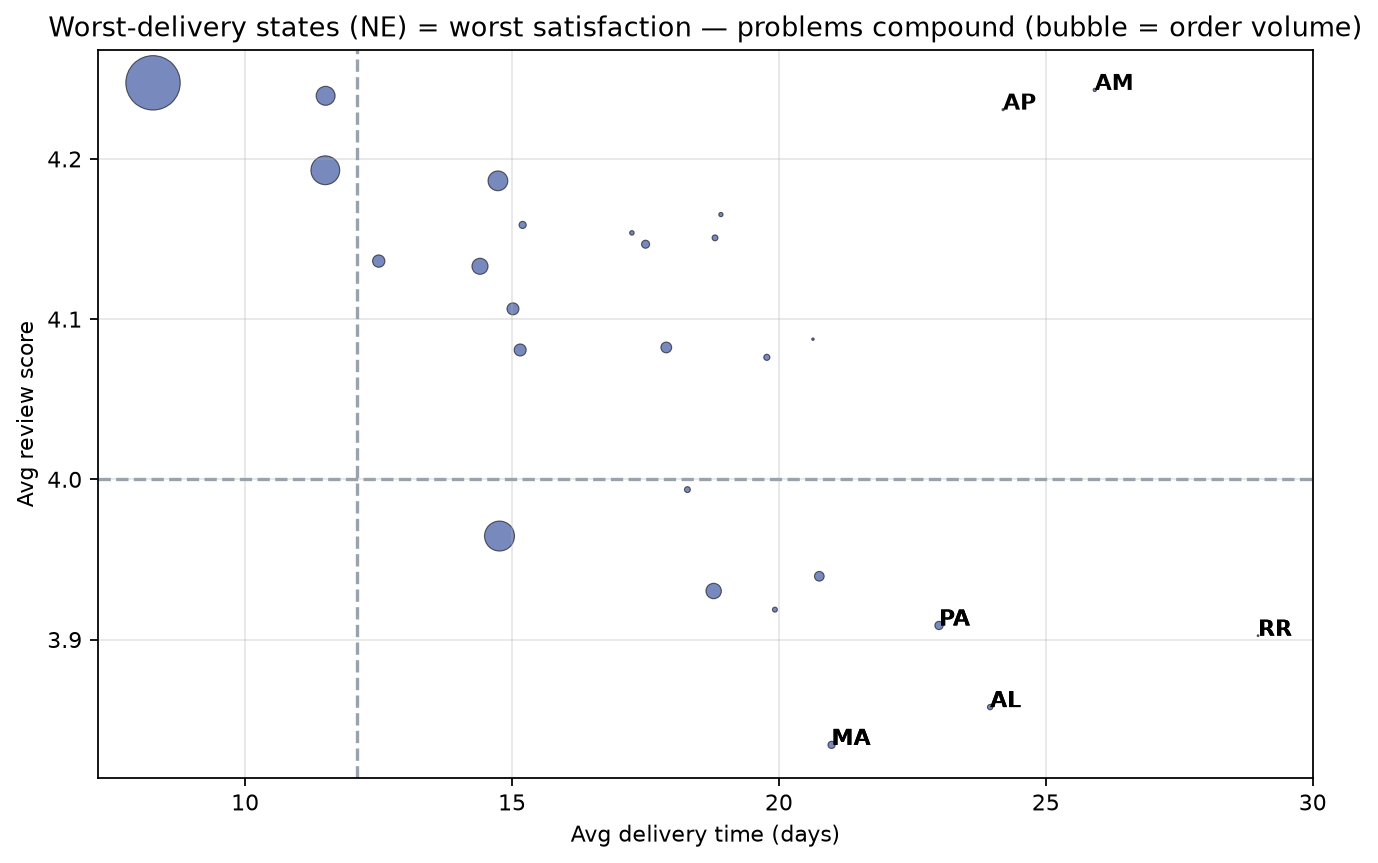
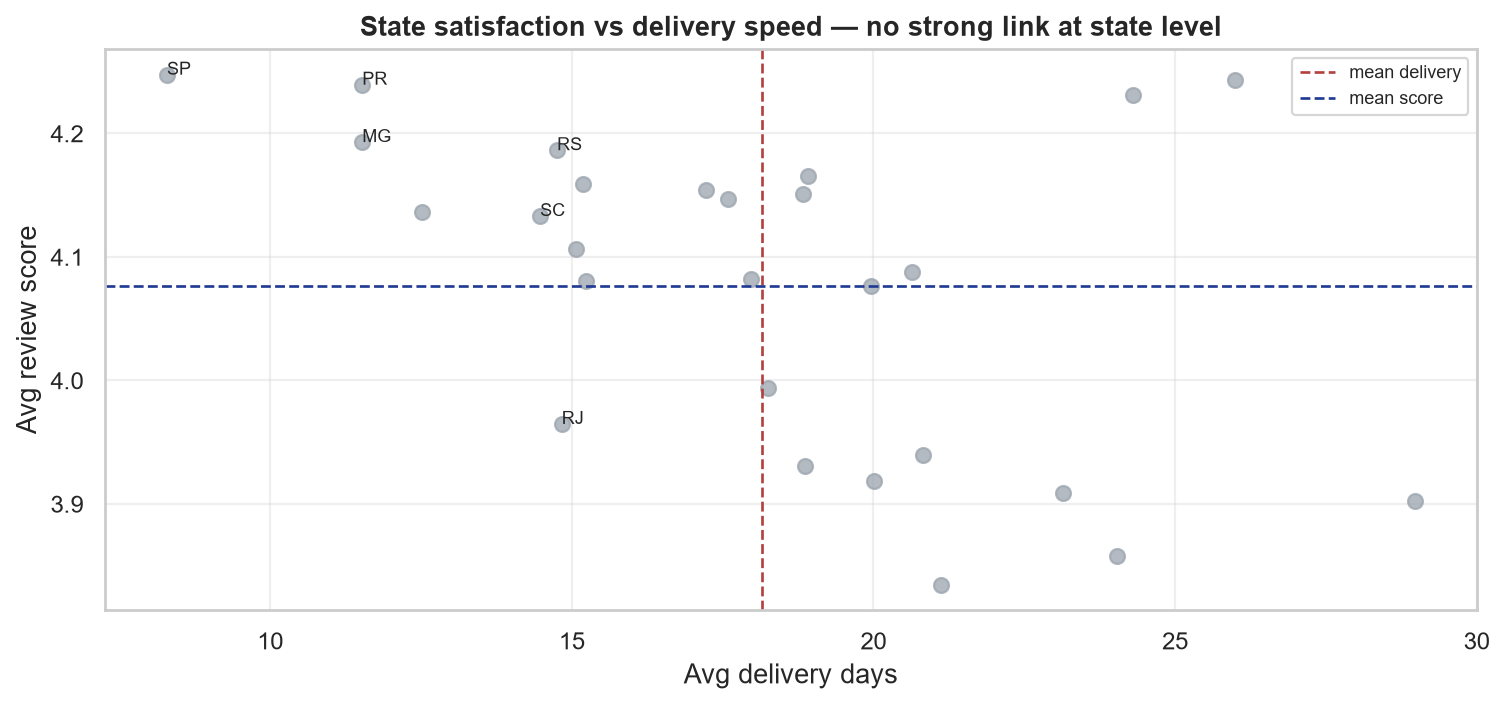
feat: geography section with state delivery/score chart, save viz_06

diff --git a/04_Python/build_full_analysis_nb.py b/04_Python/build_full_analysis_nb.py
@@ -455,6 +455,53 @@ plt.tight_layout(); plt.show()
 """))
 
 # --------------------------------------------------------------------------- #
+# SECTION 8 - GEOGRAPHY
+# --------------------------------------------------------------------------- #
+cells.append(md(r"""
+## 8. Geography
+
+Revenue and orders by customer state (SP dominance), with delivery time and
+review score per state. **Saves `viz_06`**.
+"""))
+
+cells.append(code(r"""
+st = m.groupby("customer_state").agg(
+    orders=("order_id", "size"),
+    revenue=("order_revenue", "sum"),
+    delivery=("delivery_days", "mean"),
+    score=("review_score", "mean"),
+).sort_values("revenue", ascending=False)
+st["rev_share"] = st["revenue"] / st["revenue"].sum()
+print(f"States covered: {len(st)} | SP revenue share: {st.loc['SP','rev_share']:.1%}")
+print(st.to_string())
+"""))
+
+cells.append(code(r"""
+fig, ax = plt.subplots(figsize=(9.5, 5))
+ax.bar(st.index, st["rev_share"] * 100, color=dl.PALETTE["ok"])
+ax.set_xlabel("Customer state"); ax.set_ylabel("Revenue share (%)")
+ax.set_title("Revenue concentration in SP (single mega-state, rest is long tail)")
+plt.tight_layout(); plt.show()
+"""))
+
+cells.append(code(r"""
+dd = st[["delivery", "score"]].copy()
+mm = dd.mean()
+fig, ax = plt.subplots(figsize=(9.5, 4.5))
+ax.scatter(dd["delivery"], dd["score"], c=GRAY, alpha=0.75, s=45)
+ax.axvline(mm["delivery"], color=RED, ls="--", lw=1.2, label="mean delivery")
+ax.axhline(mm["score"], color=NAVY, ls="--", lw=1.2, label="mean score")
+for s in ["SP", "RJ", "MG", "RS", "PR", "SC"]:
+    r = st.loc[s]
+    ax.annotate(s, (r["delivery"], r["score"]), fontsize=8)
+ax.set_xlabel("Avg delivery days"); ax.set_ylabel("Avg review score")
+ax.set_title("State satisfaction vs delivery speed — no strong link at state level")
+ax.legend(fontsize=8)
+savefig("viz_06_state_delivery_vs_score.png")
+plt.tight_layout(); plt.show()
+"""))
+
+# --------------------------------------------------------------------------- #
 # ASSEMBLY - later sections append above this line
 # --------------------------------------------------------------------------- #
 def build():
